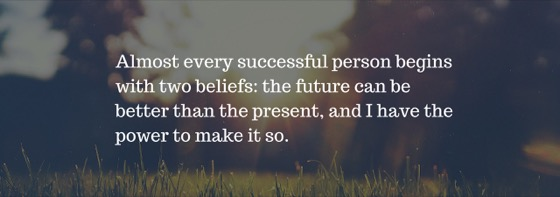
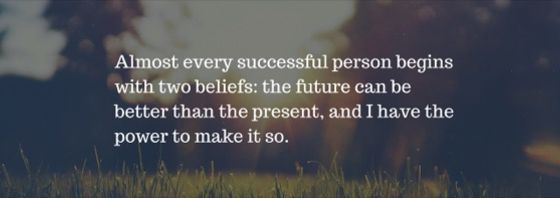
update featured images

diff --git a/src/pages/posts/what-are-the-examples-of-people-switching-from-corporate-job-to-teaching.md b/src/pages/posts/what-are-the-examples-of-people-switching-from-corporate-job-to-teaching.md
@@ -4,7 +4,7 @@ is_external: true
 title: What are the examples of people switching from corporate job to teaching?
 subtitle: ''
 date: 2015-10-08T00:00:00+05:30
-thumb_img_path: "/images/main-qimg-f17c215f987dd1a99d81c7fc1a691ad5.webp"
+thumb_img_path: "/images/main-qimg-f17c215f987dd1a99d81c7fc1a691ad5.jpg"
 content_img_path: ''
 excerpt: 'One of my favourite teacher : Arvind Gupta: The science teacher from Doordarshan.'
 url: https://www.quora.com/What-are-the-examples-of-people-switching-from-corporate-job-to-teaching/answer/Arpit-Goyal-14

diff --git a/src/pages/posts/i-know-html-css-and-a-bit-of-javascript-what-should-i-learn-next.md b/src/pages/posts/i-know-html-css-and-a-bit-of-javascript-what-should-i-learn-next.md
@@ -4,7 +4,7 @@ is_external: true
 title: I know HTML, CSS, and a bit of JavaScript. What should I learn next?
 subtitle: ''
 date: 2018-01-10T00:00:00+05:30
-thumb_img_path: "/images/main-qimg-140fd0c02a812dfaf283f6e785c7ade1.webp"
+thumb_img_path: "/images/main-qimg-140fd0c02a812dfaf283f6e785c7ade1.jpg"
 content_img_path: ''
 excerpt: 'I am a self-taught Web Developer with a decent salary and working with some
   of the finest startups in India, let me help you with getting started:'

diff --git a/src/pages/posts/how-to-get-a-job-in-a-company-which-does-awesome-work.md b/src/pages/posts/how-to-get-a-job-in-a-company-which-does-awesome-work.md
@@ -4,7 +4,7 @@ is_external: true
 title: How to get a job in a company which does awesome work?
 subtitle: ''
 date: 2018-12-01T00:00:00+05:30
-thumb_img_path: "/images/main-qimg-d9bb818bff1893b8cef6330c1df88317.webp"
+thumb_img_path: "/images/main-qimg-d9bb818bff1893b8cef6330c1df88317.jpg"
 content_img_path: ''
 excerpt: By being Awesome,  Let me explain, The cycle of awesome  Alex[1] (Self-taught
   programmer, Developer at Stack Overflow) have a theory, that having an awesome job

diff --git a/src/pages/posts/is-it-advisable-to-write-a-really-short-and-direct-resume-or-cv-without-all-the-fuss-about-objectives-and-hobbies.md b/src/pages/posts/is-it-advisable-to-write-a-really-short-and-direct-resume-or-cv-without-all-the-fuss-about-objectives-and-hobbies.md
@@ -5,7 +5,7 @@ title: Is it advisable to write a really short and direct resume or CV without a
   the fuss about objectives and hobbies?
 subtitle: ''
 date: 2018-02-02T00:00:00+05:30
-thumb_img_path: "/images/less-is-more.webp"
+thumb_img_path: "/images/less-is-more.jpg"
 content_img_path: ''
 excerpt: It is highly advisable to keep your résumé interesting, because that is the
   only thing which makes sure that HR or hiring manager reads your full résumé.

diff --git a/src/pages/posts/how-to-get-interesting-work-in-computer-science-field.md b/src/pages/posts/how-to-get-interesting-work-in-computer-science-field.md
@@ -4,7 +4,7 @@ is_external: true
 title: How to get Interesting work in Computer Science field?
 subtitle: ''
 date: 2015-12-01T00:00:00+05:30
-thumb_img_path: "/images/main-qimg-dd7b6e1eec55e7be59b52e11021c3bc2.webp"
+thumb_img_path: "/images/main-qimg-dd7b6e1eec55e7be59b52e11021c3bc2.jpg"
 content_img_path: ''
 excerpt: 'You know the obvious answer : Join a startup  So, let me answer "How can
   we join a startup ? (In 5 simple steps)"'
